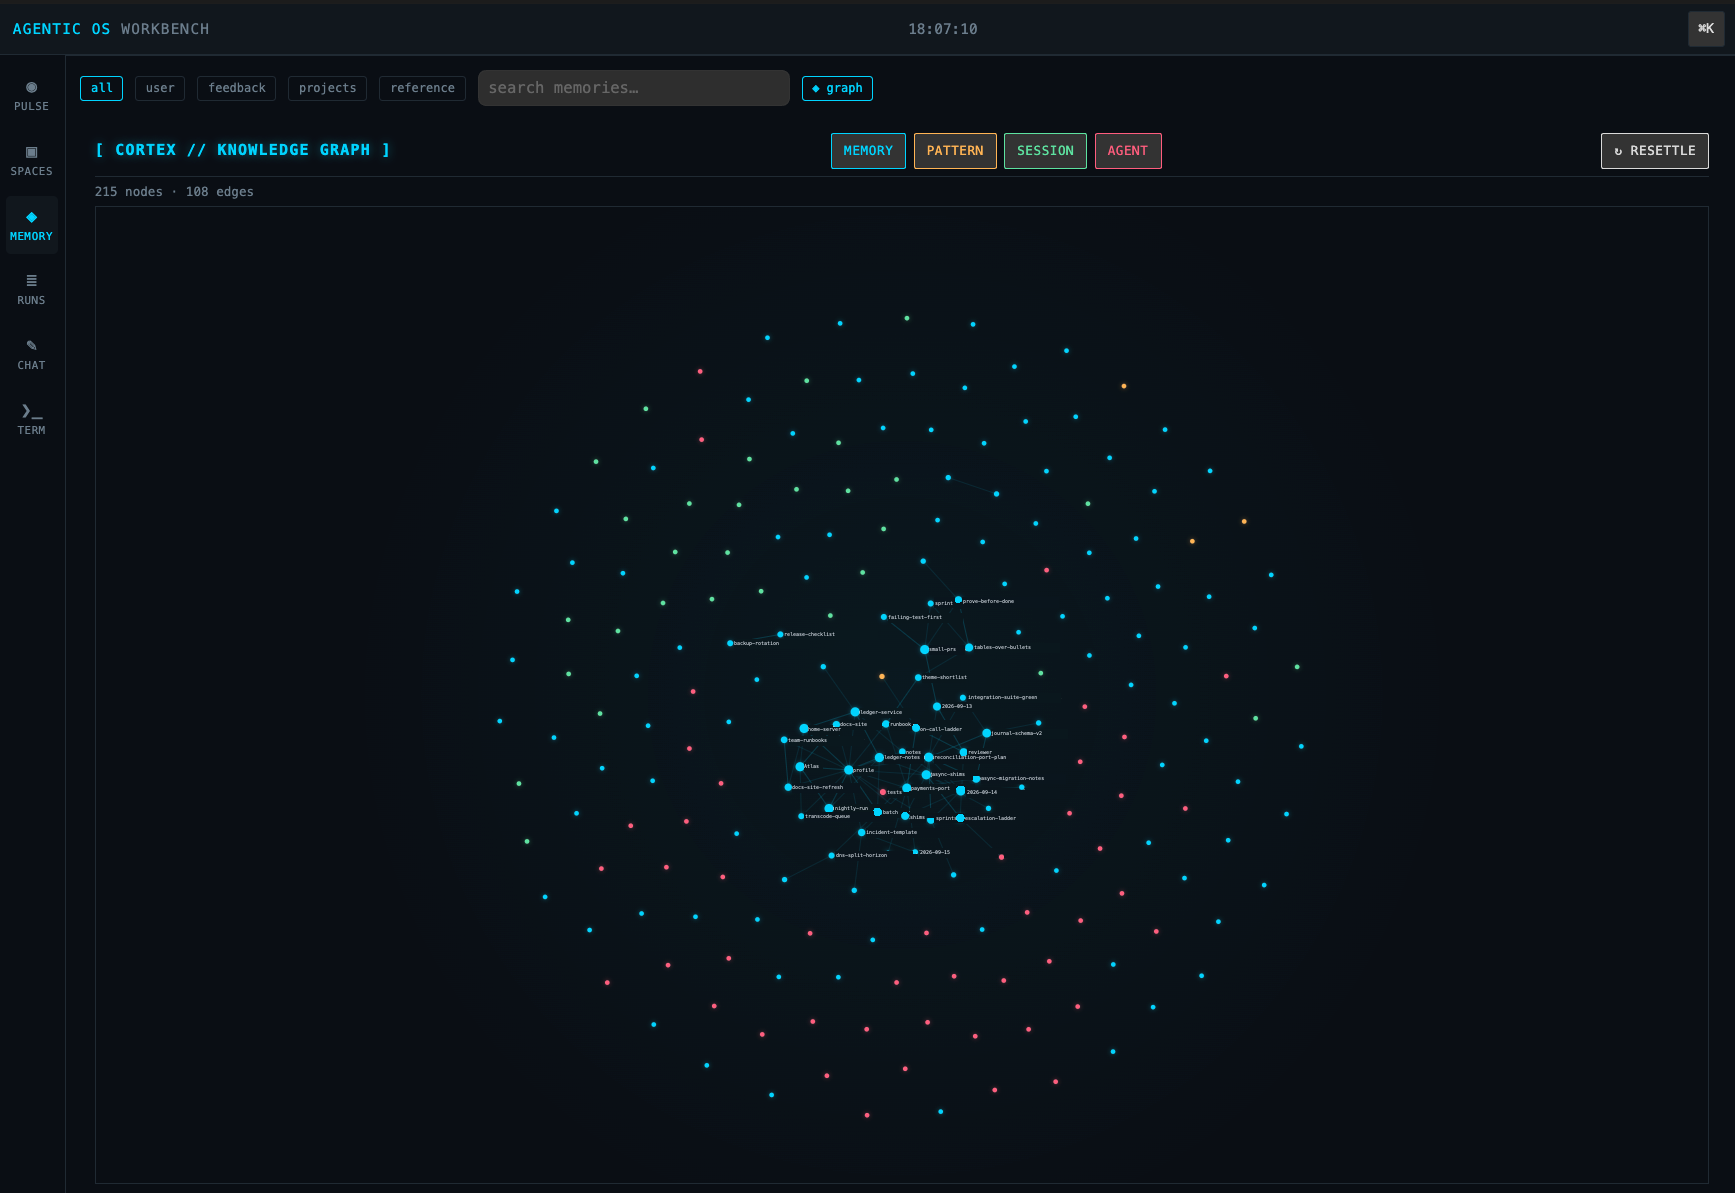
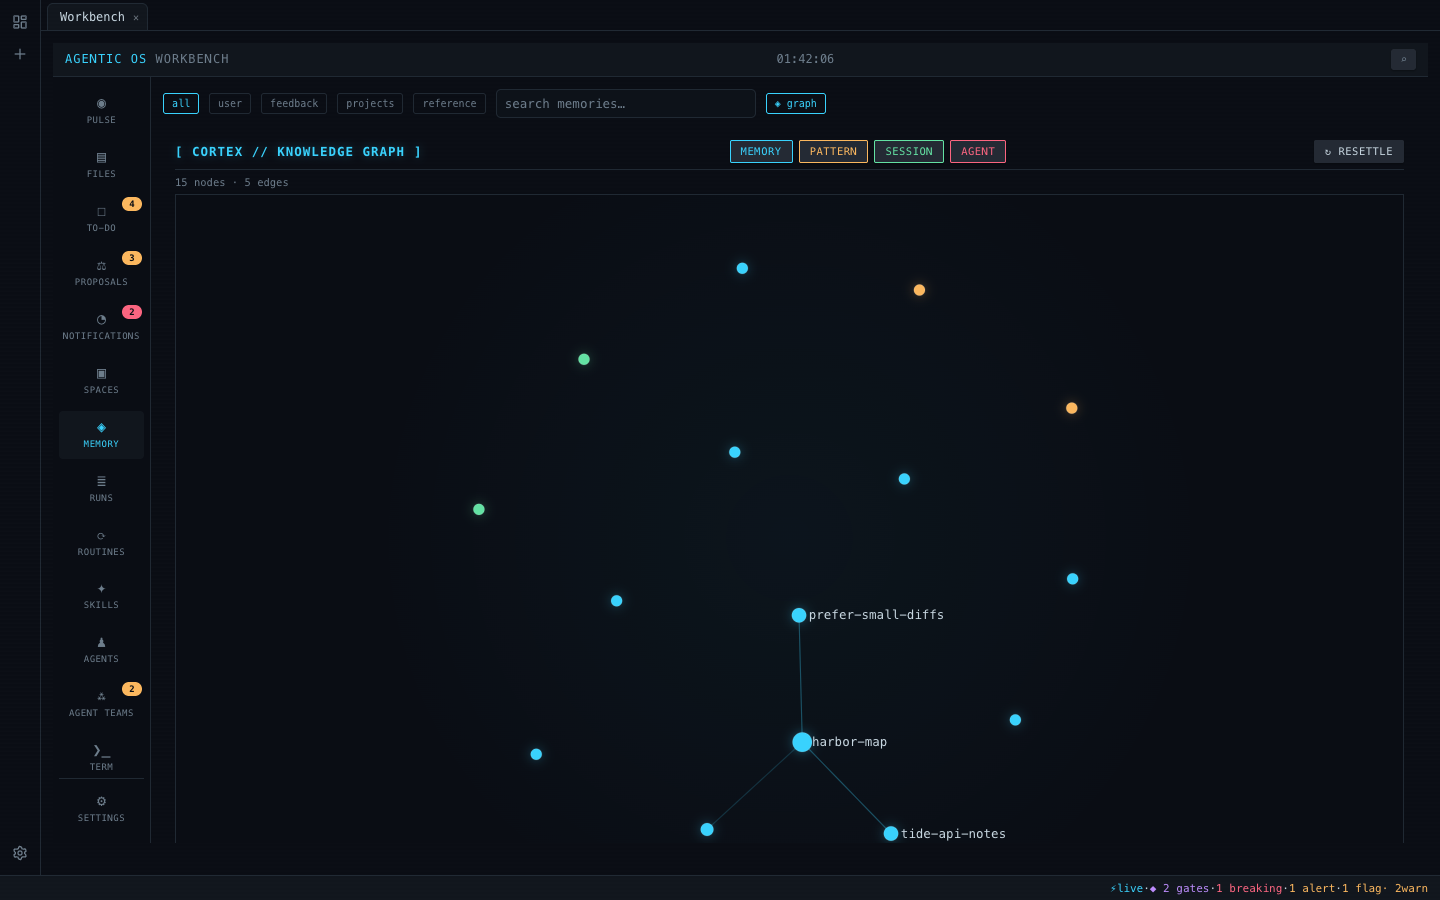
docs: the README's screenshots are the app on a demo vault
The old pictures showed the Obsidian-era HUD with six tabs. `npm run
screens` (app/tests/screens, on the e2e suite's synthetic fixture with
its test-only error cases taken out) now takes twelve of the app: Pulse,
Files, To-Do, Agent Teams, Notifications, Proposals, Routines, Skills,
Settings, Spaces, the memory graph, and the setup wizard, which the
Quick start shows. Every name and note in them is made up. It replaces
the prototype's spike driver, which ran on the developer's real vault.
The README also says the app needs macOS 13 or later, and how to remove
the app itself.

diff --git a/app/tests/screens/readme.screens.ts b/app/tests/screens/readme.screens.ts
@@ -1,0 +1,108 @@
+// The README's screenshots: the app on the synthetic fixture vault (scripts/make-fixture-vault.mjs, where every name,
+// note and run is made up), never a real one. The fixture's deliberate error cases, there for the e2e suite (a TEAM.md
+// the reader refuses, a notification with no frontmatter, one edited by hand to carry a command), are taken out first,
+// so each picture shows the Workbench as a user meets it. The app runs read-only. Pictures land in
+// ../docs/assets/screens/<name>.png, or in $AOS_SCREENS_OUT. Look at every one before committing it.
+
+import { expect, test, type Page } from "@playwright/test";
+import { execFileSync } from "node:child_process";
+import * as fs from "node:fs";
+import * as path from "node:path";
+import { FX, REPO, SETUP, appEnv, content, installSetupStubs, launchApp, openTab, restoreFixture, type AppHandle } from "../e2e/harness";
+
+const OUT = path.resolve(process.env.AOS_SCREENS_OUT ?? path.join(REPO, "..", "docs", "assets", "screens"));
+const SIZE = { width: 1440, height: 900 };
+const VERSION = (JSON.parse(fs.readFileSync(path.join(REPO, "package.json"), "utf8")) as { version: string }).version;
+
+/**
+ * Takes out the fixture's test-only edge cases, which would read as bugs in a picture, and finishes the install the way
+ * a user's is: the CLAUDE.md line (the health scan's one error without it), then the caches rebuilt by the runtime.
+ */
+function demoVault(): void {
+  fs.writeFileSync(path.join(FX.claude, "CLAUDE.md"), `@${FX.v("AGENTICOS.md")}\n`);
+  // The terminal's prompt: the folder it is in, not the fixture's own marker.
+  const zshrc = path.join(FX.home, ".zshrc");
+  fs.writeFileSync(zshrc, fs.readFileSync(zshrc, "utf8").replace(/^PROMPT=.*$/m, "PROMPT='%1~ %# '"));
+  fs.rmSync(FX.v("persona/teams/broken"), { recursive: true, force: true });
+  const root = FX.v("brain/notifications");
+  for (const year of fs.readdirSync(root).filter((d) => /^\d{4}$/.test(d))) {
+    for (const f of fs.readdirSync(path.join(root, year))) {
+      const file = path.join(root, year, f);
+      const text = fs.readFileSync(file, "utf8");
+      if (!text.startsWith("---") || /^actions: \[\{"kind":"run"/m.test(text)) fs.rmSync(file);
+    }
+  }
+  for (const script of ["scan-vault.js", "build-brain-md.js"]) {
+    execFileSync(process.execPath, [FX.v(`brain/scripts/${script}`)], { cwd: FX.vault, env: appEnv(), stdio: "ignore" });
+  }
+}
+
+const shot = (win: Page, name: string) => win.screenshot({ path: path.join(OUT, `${name}.png`), scale: "css" });
+
+test.describe.configure({ mode: "serial" });
+test.beforeAll(() => { fs.mkdirSync(OUT, { recursive: true }); });
+
+test.describe("the Workbench", () => {
+  let h: AppHandle;
+  test.beforeAll(async () => {
+    restoreFixture();
+    // The app's own default: every surface may write (to this throwaway vault), and no READ-ONLY marker shows.
+    h = await launchApp({ prepare: demoVault, size: SIZE, env: { AOS_APP_WRITE: undefined } });
+  });
+  test.afterAll(async () => { await h?.close(); });
+
+  // Each tab as it first draws, after its reads settle.
+  for (const tab of ["pulse", "todo", "proposals", "spaces", "routines", "skills", "agent-teams", "settings"]) {
+    test(tab, async () => {
+      await openTab(h.win, tab);
+      await h.win.waitForTimeout(1500);
+      await shot(h.win, tab);
+    });
+  }
+
+  test("notifications, with the morning edition open", async () => {
+    await openTab(h.win, "notifications");
+    // In the Unread view an opened item leaves the list (it is read now): open it from All.
+    await content(h.win).getByText("All", { exact: true }).click();
+    await content(h.win).locator(".aos-nt-row", { hasText: "The Morning Edition" }).click();
+    await h.win.waitForTimeout(800);
+    await shot(h.win, "notifications");
+  });
+
+  test("memory, as the graph", async () => {
+    await openTab(h.win, "memory");
+    await content(h.win).locator(".aos-mem-chip", { hasText: "◈ graph" }).click();
+    await h.win.waitForTimeout(4000);   // the force layout settles
+    await shot(h.win, "graph");
+  });
+
+  test("files, with a workspace open", async () => {
+    await openTab(h.win, "files");
+    for (const p of ["workspaces", "workspaces/harbor-map"]) await content(h.win).locator(`.aos-fl-row[data-path="${p}"]`).click();
+    await h.win.waitForTimeout(800);
+    await shot(h.win, "files");
+  });
+});
+
+test.describe("the setup wizard, with no install", () => {
+  let h: AppHandle;
+  test.beforeAll(async () => {
+    restoreFixture();
+    h = await launchApp({
+      ready: ".aos-setup",
+      noted: false,
+      size: SIZE,
+      // No agenticos.json; the wizard's PATH holds stand-ins (claude logged in, codex not, uv missing) and the app a
+      // stand-in payload, as in tests/e2e/setup.spec.ts.
+      prepare: () => { installSetupStubs(VERSION); fs.rmSync(path.join(FX.claude, "agenticos.json"), { force: true }); },
+      env: { AOS_APP_VAULT: undefined, AOS_APP_PAYLOAD: SETUP.payload, AOS_SETUP_PATH: SETUP.bin },
+    });
+  });
+  test.afterAll(async () => { await h?.close(); });
+
+  test("check: what aos init needs, with a fix for each missing piece", async () => {
+    await expect(h.win.locator('.aos-setup-check[data-check="uv"]')).toBeVisible();
+    await h.win.waitForTimeout(800);
+    await shot(h.win, "wizard");
+  });
+});

diff --git a/eslint.config.js b/eslint.config.js
@@ -21,9 +21,9 @@ module.exports = [
   // TypeScript is checked by its own tsc (`npm run typecheck` in app/); its .js/.cjs/.mjs scripts are linted here.
   { ignores: ['**/node_modules/**', 'codex-plugin/**', 'obsidian-plugin/main.js', 'obsidian-plugin/src/**', '**/*.local.*',
     // The app's build output, packages, test runs and generated fixture vault (app/.gitignore).
-    'app/out/**', 'app/out-test/**', 'app/dist/**', 'app/dist-test/**', 'app/test-results/**', 'app/playwright-report/**', 'app/spike-output/**', 'app/tests/.fixture/**', 'app/tests/.cache/**', 'app/payload/**'] },
+    'app/out/**', 'app/out-test/**', 'app/dist/**', 'app/dist-test/**', 'app/test-results/**', 'app/playwright-report/**', 'app/tests/.fixture/**', 'app/tests/.cache/**', 'app/payload/**'] },
   { files: ['**/*.js', '**/*.cjs'], languageOptions: languageOptions('commonjs'), rules },
   { files: ['**/*.mjs'], languageOptions: languageOptions('module'), rules },
   // The app's Playwright drivers: the functions they hand to evaluate() run in the app's window.
-  { files: ['app/scripts/smoke-packaged.mjs', 'app/scripts/spike-screens.mjs'], languageOptions: { globals: { ...globals.browser } } },
+  { files: ['app/scripts/smoke-packaged.mjs'], languageOptions: { globals: { ...globals.browser } } },
 ];

diff --git a/app/playwright.screens.config.ts b/app/playwright.screens.config.ts
@@ -1,0 +1,17 @@
+// The README's screenshots (`npm run screens`): tests/screens on the synthetic fixture vault the e2e suite uses, built
+// by the same global setup into $AOS_E2E_FIXTURE (the npm script points it outside the checkout, so the e2e fixture and
+// any path a picture shows stay apart from this folder).
+import { defineConfig } from "@playwright/test";
+
+export default defineConfig({
+  testDir: "tests/screens",
+  testMatch: /.*\.screens\.ts$/,
+  globalSetup: "./tests/e2e/global-setup.ts",
+  workers: 1,
+  fullyParallel: false,
+  retries: 0,
+  timeout: 120_000,
+  expect: { timeout: 15_000 },
+  reporter: [["list"]],
+  outputDir: "test-results/screens",
+});

diff --git a/tools/brand-assets.js b/tools/brand-assets.js
@@ -13,8 +13,8 @@
  *     and motion uses SMIL <animate> rather than CSS.
  *   - READMEs render in both GitHub themes, so icons are transparent and
  *     stroked in mid-tone accents that carry on light and dark alike.
- *   - The HUD screenshots beside these assets are dark Obsidian captures and
- *     cannot be re-shot, so the palette stays in the Primer dark family.
+ *   - The app's screenshots beside these assets are dark (the Workbench's own theme;
+ *     `npm run screens` in app/ retakes them), so the palette stays in the Primer dark family.
  *
  * Invariants are pinned in brand-assets.test.js.
  */

diff --git a/app/src/main/index.ts b/app/src/main/index.ts
@@ -366,7 +366,7 @@ if (!app.requestSingleInstanceLock()) {
   });
 }
 
-// For tests and the spike driver (reached through Playwright's electronApp.evaluate, never from the renderer).
+// For tests and the screenshot spec (reached through Playwright's electronApp.evaluate, never from the renderer).
 (globalThis as Record<string, unknown>).__aosMain = {
   openLink, runCommand, tray: () => tray?.state() ?? null,
   togglePopover: () => togglePopover({ x: 0, y: 0, width: 0, height: 0 }),

diff --git a/README.md b/README.md
@@ -53,9 +53,14 @@ It works with **Claude Code alone**, with **Codex CLI alone**, or with both shar
 <a name="quick-start"></a>
 ## <img src="docs/assets/icon-quickstart.svg" width="36" align="top" alt="" /> Quick start
 
-1. Download **AgenticOS Workbench** from the [latest release](https://github.com/zzoretich/AgenticOS-Workbench/releases/latest) (`AgenticOS-Workbench-<version>-arm64.dmg`, for Macs with Apple silicon), open it and drag the app to Applications.
+1. Download **AgenticOS Workbench** from the [latest release](https://github.com/zzoretich/AgenticOS-Workbench/releases/latest) (`AgenticOS-Workbench-<version>-arm64.dmg`, for Macs with Apple silicon on macOS 13 or later), open it and drag the app to Applications.
 2. Open the app. Its setup wizard checks what AgenticOS needs and fixes what is missing, asks which hosts and which vault folder, asks your Chief of Staff's questions, installs, and opens the Workbench. No terminal needed.
 3. Start a `claude` or `codex` session: the first prompt already carries your brain context.
+
+<p align="center">
+  <img src="docs/assets/screens/wizard.png" width="720" alt="The setup wizard's checks: each prerequisite with a check mark, and a fix button for a missing one" />
+  <br /><sub><b>The setup wizard.</b> Each prerequisite is checked, and a missing one gets a button that fixes it (here: install uv, log in to Codex).</sub>
+</p>
 
 Prefer a terminal? The same install runs from a clone:
 
@@ -73,7 +78,7 @@ Then add the one line the installer prints to `~/.claude/CLAUDE.md` (Claude Code
 
 | | Required? | What the app's wizard and the installer check |
 |---|---|---|
-| **macOS** | required | AgenticOS supports macOS only: the Workbench is a macOS app, built for Apple silicon, and schedules run through launchd. The runtime's Linux code paths (cron) are still there, but untested and unsupported; Windows is not supported. |
+| **macOS** | required | AgenticOS supports macOS only: the Workbench is a macOS app, built for Apple silicon and macOS 13 or later, and schedules run through launchd. The runtime's Linux code paths (cron) are still there, but untested and unsupported; Windows is not supported. |
 | **Node.js 20 or newer** | required | `node -v` prints `v20` or later. CI runs on 20 and 22. |
 | **git** | required | On macOS it arrives with the Command Line Tools; accept the install dialog if one appears. |
 | **Claude Code and/or Codex CLI, logged in** | one required | `claude auth status` reports a login, or `codex login status` does (or both). `aos init` wires every host it finds; `--host claude\|codex\|both` picks. Background work runs through the same CLI, so there is nothing else to configure. |
@@ -175,33 +180,60 @@ Open the **AgenticOS Workbench** app ([download](https://github.com/zzoretich/Ag
 <a name="screenshots"></a>
 ## <img src="docs/assets/icon-screens.svg" width="36" align="top" alt="" /> Screenshots
 
-The HUD on a demo vault: a user called Casey, an agent called Atlas, two workspaces, a handful of memories, and a local Ollama as the provider.
+The AgenticOS Workbench app on a demo vault. Everything in these pictures is made up: an agent called Nimbus, two workspaces, a small agent team, a few memories, to-dos and notifications. `npm run screens` in `app/` takes them again.
 
 <p align="center">
-  <img src="docs/assets/screens/pulse.png" width="960" alt="Pulse: eight pipeline LEDs, the command deck, the agent's latest flag, cost and health, the fix queue, and the memories promoted this week" />
-  <br /><sub><b>Pulse.</b> Eight pipeline LEDs, the command deck, Atlas's latest flag, month-to-date cost, the fix queue, and what got promoted to memory this week.</sub>
+  <img src="docs/assets/screens/pulse.png" width="960" alt="Pulse: the pipeline LEDs, the command deck, the agent's latest note, cost and health, the fix queue, recent memories and a terminal" />
+  <br /><sub><b>Pulse.</b> The pipeline LEDs, the command deck, your agent's latest note, month-to-date cost and health, the fix queue, what got promoted to memory, and a terminal.</sub>
 </p>
 
 <table>
   <tr>
     <td width="50%" valign="top">
-      <img src="docs/assets/screens/spaces.png" width="100%" alt="Spaces: the vault's workspaces with status, objectives, key documents and a generated insight" />
-      <br /><sub><b>Spaces.</b> Every workspace in the vault with its status, objectives, key documents and a generated insight.</sub>
+      <img src="docs/assets/screens/files.png" width="100%" alt="Files: the vault as a tree, with search across notes" />
+      <br /><sub><b>Files.</b> The vault as a tree, search across every note, Open file… (⌘O), and new, rename, move and delete to the Trash.</sub>
     </td>
     <td width="50%" valign="top">
-      <img src="docs/assets/screens/memory.png" width="100%" alt="Memory: every memory by type and date, with review badges" />
-      <br /><sub><b>Memory.</b> Every memory by type and date, searchable, with review badges for what the wrap wrote on its own.</sub>
+      <img src="docs/assets/screens/todo.png" width="100%" alt="To-Do: TODO.md grouped into overdue, today, upcoming and someday" />
+      <br /><sub><b>To-Do.</b> Your <code>TODO.md</code> in Tasks syntax, grouped by due date, with quick-add, tags and priorities.</sub>
     </td>
   </tr>
   <tr>
     <td width="50%" valign="top">
-      <img src="docs/assets/screens/runs.png" width="100%" alt="Runs: every Claude Code session with duration, cost and age" />
-      <br /><sub><b>Runs.</b> Every Claude Code session, with duration, cost and age; click one for its tool timeline.</sub>
+      <img src="docs/assets/screens/agent-teams.png" width="100%" alt="Agent Teams: gates waiting on you, then a team's work board" />
+      <br /><sub><b>Agent Teams.</b> The gates waiting on you, with the lead's case and a budget, then each team's board, roster and channel.</sub>
     </td>
     <td width="50%" valign="top">
-      <img src="docs/assets/screens/chat.png" width="100%" alt="Chat: ask the brain a question and get an answer from your own notes" />
-      <br /><sub><b>Chat.</b> Ask the brain a question; it answers from your own notes through whichever provider is live.</sub>
+      <img src="docs/assets/screens/notifications.png" width="100%" alt="Notifications: an edition from an agent, with its sections and buttons" />
+      <br /><sub><b>Notifications.</b> What agents, routines and duties post: editions, alerts and breaking news, with ask buttons per section.</sub>
     </td>
+  </tr>
+  <tr>
+    <td width="50%" valign="top">
+      <img src="docs/assets/screens/proposals.png" width="100%" alt="Proposals: pending proposals, the backlog and the decision history" />
+      <br /><sub><b>Proposals.</b> Your Chief of Staff's pending proposals, the backlog and every decision, with approval rates.</sub>
+    </td>
+    <td width="50%" valign="top">
+      <img src="docs/assets/screens/routines.png" width="100%" alt="Routines: every routine with its cadence, next fire, last run and health" />
+      <br /><sub><b>Routines.</b> Every routine file with its cadence, next fire, last run and health, plus the schedules your hosts own.</sub>
+    </td>
+  </tr>
+  <tr>
+    <td width="50%" valign="top">
+      <img src="docs/assets/screens/skills.png" width="100%" alt="Skills: every Claude Code and Codex skill, runnable on either host" />
+      <br /><sub><b>Skills.</b> Every Claude Code and Codex skill, yours and your plugins', with what is shared between the hosts.</sub>
+    </td>
+    <td width="50%" valign="top">
+      <img src="docs/assets/screens/settings.png" width="100%" alt="Settings: every setting of the system as toggles and pickers" />
+      <br /><sub><b>Settings.</b> The whole system in one panel: master switches, models, spend caps, all toggles and pickers.</sub>
+    </td>
+  </tr>
+  <tr>
+    <td width="50%" valign="top">
+      <img src="docs/assets/screens/spaces.png" width="100%" alt="Spaces: the vault's workspaces with summary, key documents and next step" />
+      <br /><sub><b>Spaces.</b> Every workspace in the vault with its summary, key documents and what is next, and the sessions that ran there.</sub>
+    </td>
+    <td width="50%" valign="top"></td>
   </tr>
 </table>
 
@@ -512,6 +544,7 @@ sh cli/rehearsal/first-run.sh              # a complete install in a temp HOME w
 sh cli/rehearsal/codex-host.sh             # a Codex-only machine: direct wiring, then the upgrade to the Codex plugin; hooks and MCP run for real
 npm run build:codex-plugin                 # regenerate codex-plugin/ after changing plugin/ (the tests fail until you do)
 (cd app && npm ci && npm run test:e2e)     # the app: see app/README.md (macOS)
+(cd app && npm run screens)                # retake the README screenshots on a demo vault
 node tools/brand-assets.js                 # regenerate the brand assets under docs/assets
 ```
 
@@ -525,6 +558,8 @@ aos uninstall --keep-vault     # remove both plugins (or the direct Codex wiring
 aos uninstall                  # additionally delete the vault, after you type its path back
 aos uninstall --host codex     # unwire only the Codex host (its plugin and marketplace, or the direct wiring); keep everything else
 ```
+
+To remove the app too, quit it and drag **AgenticOS Workbench** from Applications to the Trash; its own settings are in `~/Library/Application Support/AgenticOS Workbench`.
 
 `~/.claude` and `~/.codex` are left exactly as they were (a `hooks.json` that held only our entries is removed; one with your own entries keeps them). The vault is never deleted when it is your home directory or a Claude config directory.
 

diff --git a/docs/install.md b/docs/install.md
@@ -1,6 +1,6 @@
 # Install
 
-AgenticOS Workbench runs on **macOS** with Node 20+, Claude Code and/or Codex CLI (logged in), Ollama, python3 3.9+, and uv. All five are checked before `aos init` writes anything. The Workbench itself is the **AgenticOS Workbench** app, a macOS app for Apple silicon that reads the vault the installer records; Obsidian is not needed (the vault stays plain Markdown, so any editor still opens it). Coming from a release before 1.0, where the Workbench ran in Obsidian? See [migrating-to-1.0.md](migrating-to-1.0.md). The runtime's Linux code (cron schedules) is still there but untested and unsupported; Windows is not supported.
+AgenticOS Workbench runs on **macOS** with Node 20+, Claude Code and/or Codex CLI (logged in), Ollama, python3 3.9+, and uv. All five are checked before `aos init` writes anything. The Workbench itself is the **AgenticOS Workbench** app, a macOS app for Apple silicon (macOS 13 or later) that reads the vault the installer records; Obsidian is not needed (the vault stays plain Markdown, so any editor still opens it). Coming from a release before 1.0, where the Workbench ran in Obsidian? See [migrating-to-1.0.md](migrating-to-1.0.md). The runtime's Linux code (cron schedules) is still there but untested and unsupported; Windows is not supported.
 
 ## From the app
 

diff --git a/app/README.md b/app/README.md
@@ -87,7 +87,7 @@ tests/           unit tests, and the end-to-end suite with its coverage map (tes
 | `npm run check:compat` | fail if the HUD uses an Obsidian API, DOM helper or icon `compat/` lacks |
 | `npm run test:e2e` | build, generate the synthetic fixture vault, run the Playwright `_electron` suite |
 | `npm run fixture` | generate the fixture vault alone (`tests/.fixture/`) |
-| `npm run spike:screens` | drive the app on your real vault; screenshots and a report in `spike-output/` (never commit it) |
+| `npm run screens` | the README's screenshots: the app on a synthetic demo vault (the e2e fixture, its test-only error cases taken out), into `../docs/assets/screens/` |
 | `npm run dist` | build, then package, sign and (with `APPLE_KEYCHAIN_PROFILE`) notarize the app and its DMG into `dist/` |
 | `npm run dist:verify` | check the build's signature, entitlements, fuses, contents, notarization and DMG, and that it refuses a debugger |
 | `npm run dist:test` | the smoke build in `dist-test/`: packaged like `dist`, ad-hoc signed, the one build that accepts the DevTools port |
